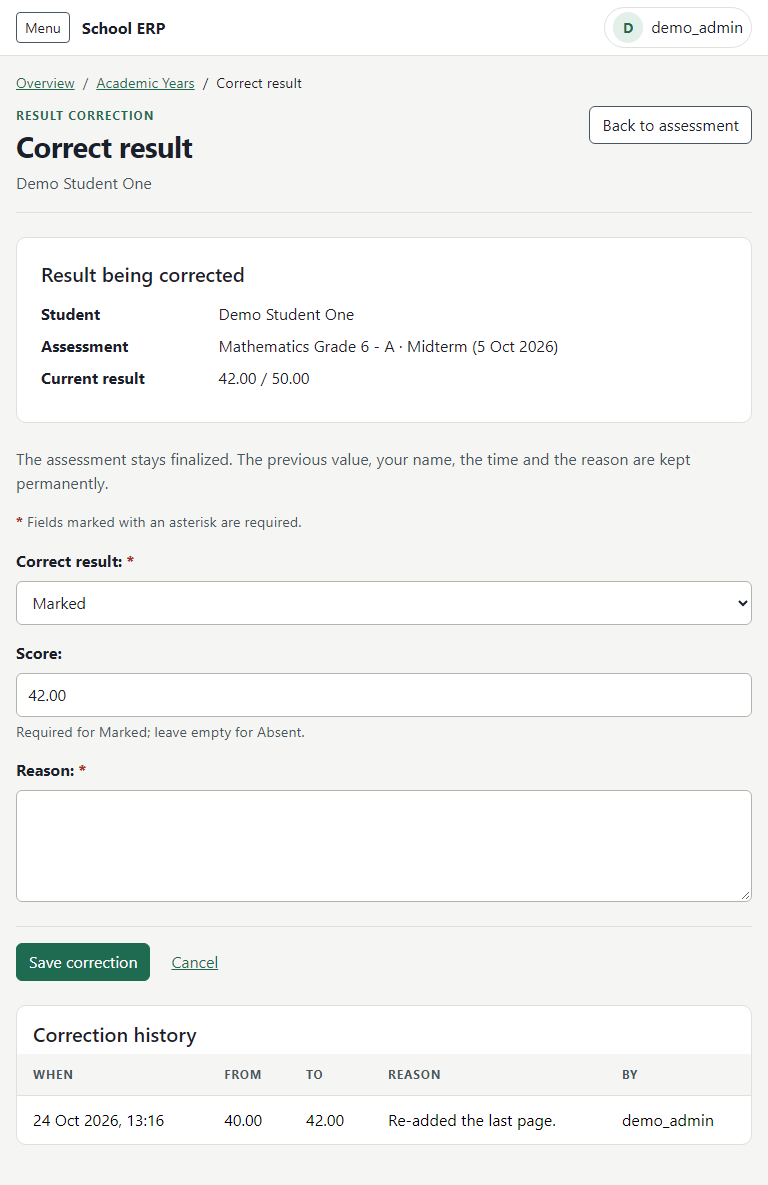
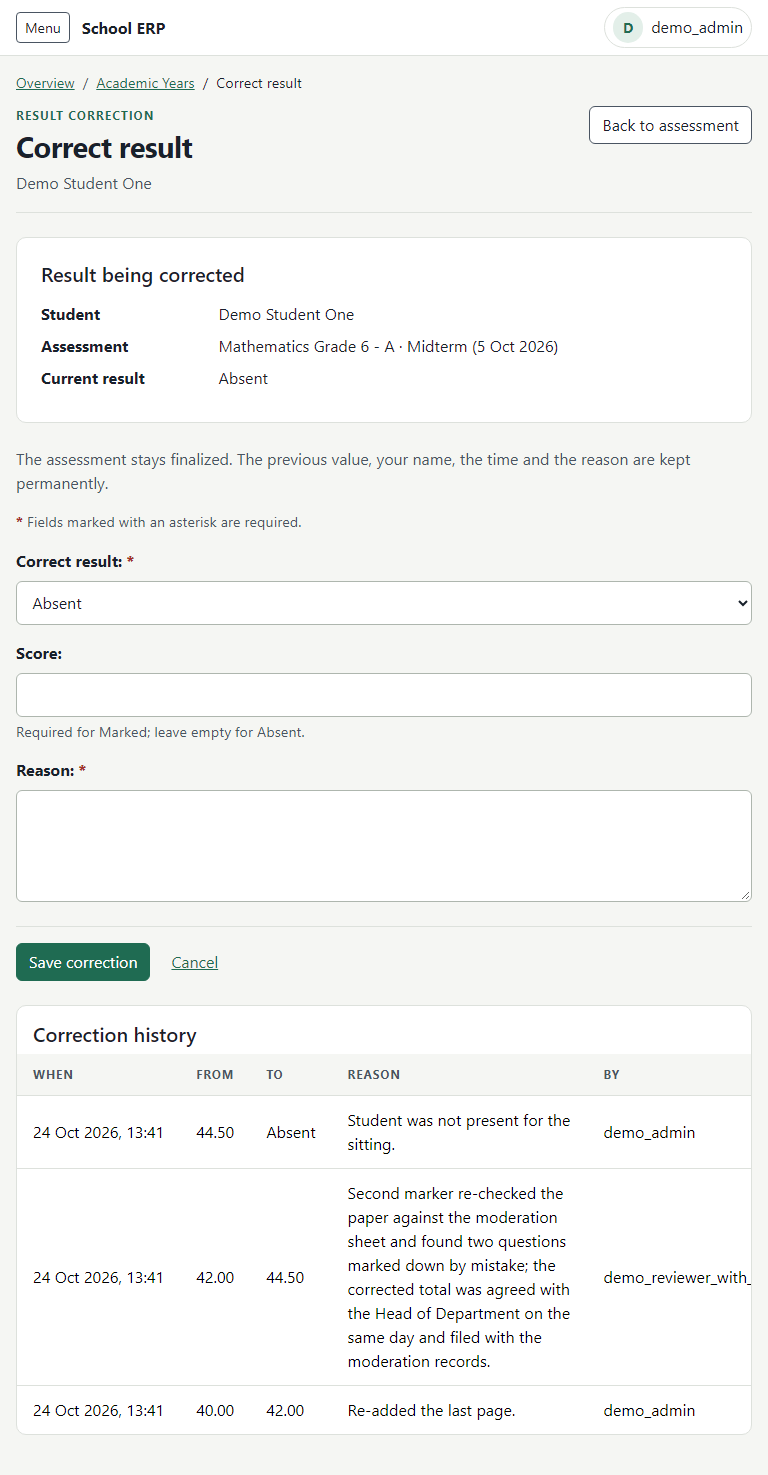
fix(ui): D1-5B review - scoped Correction History table and exact empty-roster colspan
Correction History gets erp-correction-table (readable widths, local scroll, no global table change). The empty roster cell spans the visible column count (6 + Pass/Fail + Correct). 4 tests added; evidence refreshed at 360/390/768/1440.

diff --git a/core/templates/core/result_correction_form.html b/core/templates/core/result_correction_form.html
@@ -25,7 +25,7 @@
 <section class="erp-panel mt-4" aria-labelledby="correction-history-heading">
 <div class="erp-panel-head p-3 pb-2"><h2 class="h5" id="correction-history-heading">Correction history</h2></div>
 <div class="erp-table-scroll" role="region" aria-label="Correction history" tabindex="0">
-<table class="table erp-keep">
+<table class="table erp-correction-table">
     <caption class="visually-hidden">Corrections to this result, with the previous and new value, the reason and who made the change.</caption>
     <thead>
         <tr><th scope="col">When</th><th scope="col">From</th><th scope="col">To</th><th scope="col">Reason</th><th scope="col">By</th></tr>
@@ -33,11 +33,11 @@
     <tbody>
         {% for c in corrections %}
         <tr>
-            <td>{{ c.created_at }}</td>
-            <td>{% if c.previous_status == "MARKED" %}{{ c.previous_score }}{% else %}Absent{% endif %}</td>
-            <td>{% if c.new_status == "MARKED" %}{{ c.new_score }}{% else %}Absent{% endif %}</td>
-            <td class="text-break">{{ c.reason }}</td>
-            <td>{{ c.corrected_by }}</td>
+            <td class="text-nowrap">{{ c.created_at }}</td>
+            <td class="text-nowrap">{% if c.previous_status == "MARKED" %}{{ c.previous_score }}{% else %}Absent{% endif %}</td>
+            <td class="text-nowrap">{% if c.new_status == "MARKED" %}{{ c.new_score }}{% else %}Absent{% endif %}</td>
+            <td class="text-break erp-correction-reason">{{ c.reason }}</td>
+            <td class="text-nowrap">{{ c.corrected_by }}</td>
         </tr>
         {% empty %}
         <tr><td colspan="5">No corrections yet.</td></tr>

diff --git a/static/css/erp.css b/static/css/erp.css
@@ -1285,6 +1285,10 @@ th[aria-sort="descending"] .erp-sort-link::after { content: " \25BC"; font-size:
 @media (max-width: 575.98px) {
   .erp-panel .erp-grading-table > thead > tr > *, .erp-panel .erp-grading-table > tbody > tr > * { padding-inline: var(--erp-space-2); overflow-wrap: break-word; }
 }
+/* UI-D1-5B review: the Correction History keeps readable widths (dates, scores and usernames stay on one line, the
+   reason gets a floor) and scrolls inside its labelled region instead of squeezing the audit values. */
+.erp-panel .erp-correction-table .erp-correction-reason { min-width: 16rem; max-width: 26rem; white-space: normal; overflow-wrap: break-word; }
+.erp-panel .erp-correction-table { min-width: 44rem; }
 /* UI-D1-5B: the assessment filter toolbar (Term, Section, Status, button) shares one row on wide desktops; the
    assessment tables (list and roster) tighten phone padding and keep long names wrapping inside their region. */
 @media (min-width: 576px) {

diff --git a/core/templates/core/_assessment_results.html b/core/templates/core/_assessment_results.html
@@ -20,7 +20,7 @@
             {% if assessment.is_finalized and perms.core.correct_studentresult and not read_only %}<td>{% if result %}<a href="{% url 'core:result-correct' result.pk %}" aria-label="Correct result for {{ enrollment.student.full_name }}">Correct</a>{% endif %}</td>{% endif %}
         </tr>
         {% empty %}
-        <tr><td colspan="8">No Students are enrolled in this Section on the assessment date.</td></tr>
+        <tr><td colspan="{% if assessment.pass_mark is not None %}{% if assessment.is_finalized and perms.core.correct_studentresult and not read_only %}8{% else %}7{% endif %}{% elif assessment.is_finalized and perms.core.correct_studentresult and not read_only %}7{% else %}6{% endif %}">No Students are enrolled in this Section on the assessment date.</td></tr>
         {% endfor %}
     </tbody>
 </table>

diff --git a/core/tests/test_ui_admin_desktop_d1_5b_assessments.py b/core/tests/test_ui_admin_desktop_d1_5b_assessments.py
@@ -18,7 +18,7 @@ from django.test import TestCase
 from django.urls import resolve, reverse
 
 from core.breadcrumbs import breadcrumb_context
-from core.models import AcademicYear, Assessment, ResultCorrection, ResultStatus, StudentResult
+from core.models import AcademicYear, Assessment, ResultCorrection, ResultStatus, Section, StudentResult
 from core.tests.phase4_fixtures import Phase4Fixture
 
 User = get_user_model()
@@ -293,6 +293,46 @@ class DetailTests(AssessmentFixture, TestCase):
         self.assertEqual(len(response.context["rows"]), 3)
 
 
+    def empty_roster_assessment(self, *, pass_mark, finalized):
+        """An assessment in a Section with no enrolled Students, so the roster is empty."""
+        self._empty_sections = getattr(self, "_empty_sections", 0) + 1
+        section = Section.objects.create(class_grade=self.grade6, name=f"Empty {self._empty_sections}")
+        assessment = self.unique_assessment(
+            f"Empty roster {self._empty_sections}", section=section, pass_mark=pass_mark
+        )
+        if finalized:
+            self.force_finalize(assessment)
+        return assessment
+
+    def test_empty_roster_colspan_matches_the_visible_columns(self):
+        _, viewer = self.client_with("view_assessment")
+        cases = (  # (pass mark, finalized, client, expected visible columns)
+            (None, False, self.client, 6),
+            ("8", False, self.client, 7),
+            (None, True, self.client, 7),   # Correct column, no Pass/Fail
+            ("8", True, self.client, 8),    # Correct column and Pass/Fail
+            (None, True, viewer, 6),        # finalized but the viewer cannot correct
+            ("8", True, viewer, 7),
+        )
+        for pass_mark, finalized, client, expected in cases:
+            with self.subTest(pass_mark=pass_mark, finalized=finalized, expected=expected):
+                assessment = self.empty_roster_assessment(pass_mark=pass_mark, finalized=finalized)
+                page = html(client.get(reverse("core:assessment-detail", args=[assessment.pk])))
+                table = re.search(r'aria-label="Results for[^>]*>.*?</table>', page, re.S).group(0)
+                headers = len(re.findall(r'<th scope="col"', table))
+                colspan = int(re.search(r'<td colspan="(\d+)">No Students are enrolled', table).group(1))
+                self.assertEqual(headers, expected)
+                self.assertEqual(colspan, headers)
+                self.assertIn("No Students are enrolled in this Section on the assessment date.", table)
+
+    def test_populated_roster_rows_match_the_header_count(self):
+        page = html(self.client.get(self.final_url))
+        table = re.search(r'aria-label="Results for[^>]*>.*?</table>', page, re.S).group(0)
+        headers = len(re.findall(r'<th scope="col"', table))
+        first_row = re.search(r"<tbody>.*?<tr>(.*?)</tr>", table, re.S).group(1)
+        self.assertEqual(headers, len(re.findall(r"<t[dh][ >]", first_row)))
+
+
 class FormTests(AssessmentFixture, TestCase):
     def setUp(self):
         self.build()
@@ -398,6 +438,39 @@ class CorrectionTests(AssessmentFixture, TestCase):
         draft_result = StudentResult.objects.get(academic_enrollment=self.ravi_a)
         response = self.client.get(reverse("core:result-correct", args=[draft_result.pk]))
         self.assertRedirects(response, self.draft_url)
+
+
+    def test_history_table_has_its_own_scoped_class_and_readable_cells(self):
+        reason = "Re-marked after a paper recount, with the second marker's agreement noted in the file."
+        self.zoya_result.correct(
+            new_status=ResultStatus.MARKED, new_score="42", actor=self.admin, reason=reason
+        )
+        page = html(self.client.get(self.url))
+        region = re.search(r'<div class="erp-table-scroll"[^>]*aria-label="Correction history"[^>]*>', page).group(0)
+        self.assertIn('role="region"', region)
+        self.assertIn('tabindex="0"', region)
+        table = re.search(r'aria-label="Correction history".*?</table>', page, re.S).group(0)
+        self.assertIn('<table class="table erp-correction-table">', table)
+        self.assertNotIn("erp-keep", table)
+        self.assertEqual(re.findall(r'<th scope="col">([^<]+)</th>', table),
+                         ["When", "From", "To", "Reason", "By"])
+        row = re.search(r"<tbody>.*?<tr>(.*?)</tr>", table, re.S).group(1)
+        cells = re.findall(r"<td([^>]*)>(.*?)</td>", row, re.S)
+        self.assertEqual([c[0].strip() for c in cells],
+                         ['class="text-nowrap"', 'class="text-nowrap"', 'class="text-nowrap"',
+                          'class="text-break erp-correction-reason"', 'class="text-nowrap"'])
+        self.assertEqual([cells[1][1], cells[2][1]], ["40.00", "42.00"])
+        self.assertIn("agreement noted in the file.", cells[3][1])  # the whole reason is kept
+        self.assertEqual(cells[4][1], "admin")
+
+    def test_history_survives_an_invalid_post(self):
+        self.zoya_result.correct(
+            new_status=ResultStatus.MARKED, new_score="42", actor=self.admin, reason="First fix."
+        )
+        page = html(self.client.post(self.url, {"status": "MARKED", "score": "", "reason": ""}))
+        self.assertIn("First fix.", page)
+        self.assertIn('role="alert" id="form-error-summary"', page)
+        self.assertEqual(ResultCorrection.objects.count(), 1)
 
 
 class AccessTests(AssessmentFixture, TestCase):

diff --git a/docs/ui-reviews/ui-d1-5b/README.md b/docs/ui-reviews/ui-d1-5b/README.md
@@ -43,3 +43,20 @@ Seeded assessments: **1** Quiz 1 (draft, one marked, one **Absent**, one **Not e
 - The list table's column order differs from the plan (Assessment and Status first) so the name and state stay visible on phones.
 - The "corrected" badge keeps its original lowercase text and the row link keeps the visible text "Correct" (with an accessible name that includes the Student) because existing Phase 4 tests assert both strings.
 - Tables scroll locally on phones; 43px top-bar overflow at 195 CSS px is pre-existing.
+
+## Review corrections (PR #111 review)
+
+Two corrections after design review; screenshots `correct-*`, `correct-invalid-*`, `correct-scrolled-*` (360, 390, 768, 1440) and `empty-roster-*` (360, 390, 1440) were recaptured from a seed with **three corrections, one 230-character reason and a 39-character username**. Measurements are in `measurements-review.json` (they supersede the `correct` and `correct-invalid` rows of `measurements.json`).
+
+1. **Correction History table.** It now has its own class, `erp-correction-table` (no longer `erp-keep`), scoped CSS only: When, From, To and By stay on one line, the Reason column has a 16rem floor and 26rem cap and wraps, and the table has a 44rem floor. The labelled, focusable `erp-table-scroll` region scrolls it; the column order and every audit value are unchanged.
+
+| Width | Table / region | Page overflow | Local scroll | Keyboard |
+| --- | --- | --- | --- | --- |
+| 360 | 1071px / 326px | **0px** | 745px | focus ring 3px; ArrowRight scrolls the region, page stays 0px |
+| 390 | 1071px / 356px | **0px** | 715px | same |
+| 768 | 911px / 734px | **0px** | 177px | n/a |
+| 1440 | 1126px / 1126px | **0px** | none | n/a |
+
+   Dates and usernames never wrap (rows are 49px; the long reason wraps to about 145px at 1440). The invalid correction form shows the error summary and keeps the history unchanged at every width.
+
+2. **Empty roster colspan.** `colspan` is now 6 plus one for Pass/Fail plus one for the Correct column. Measured with the header count: draft without pass mark 6, with pass mark 7, finalized with Correct 7 or 8, finalized for a viewer without Correct 6 or 7 (all six cases asserted in tests; the screenshots show the 7-column case).
